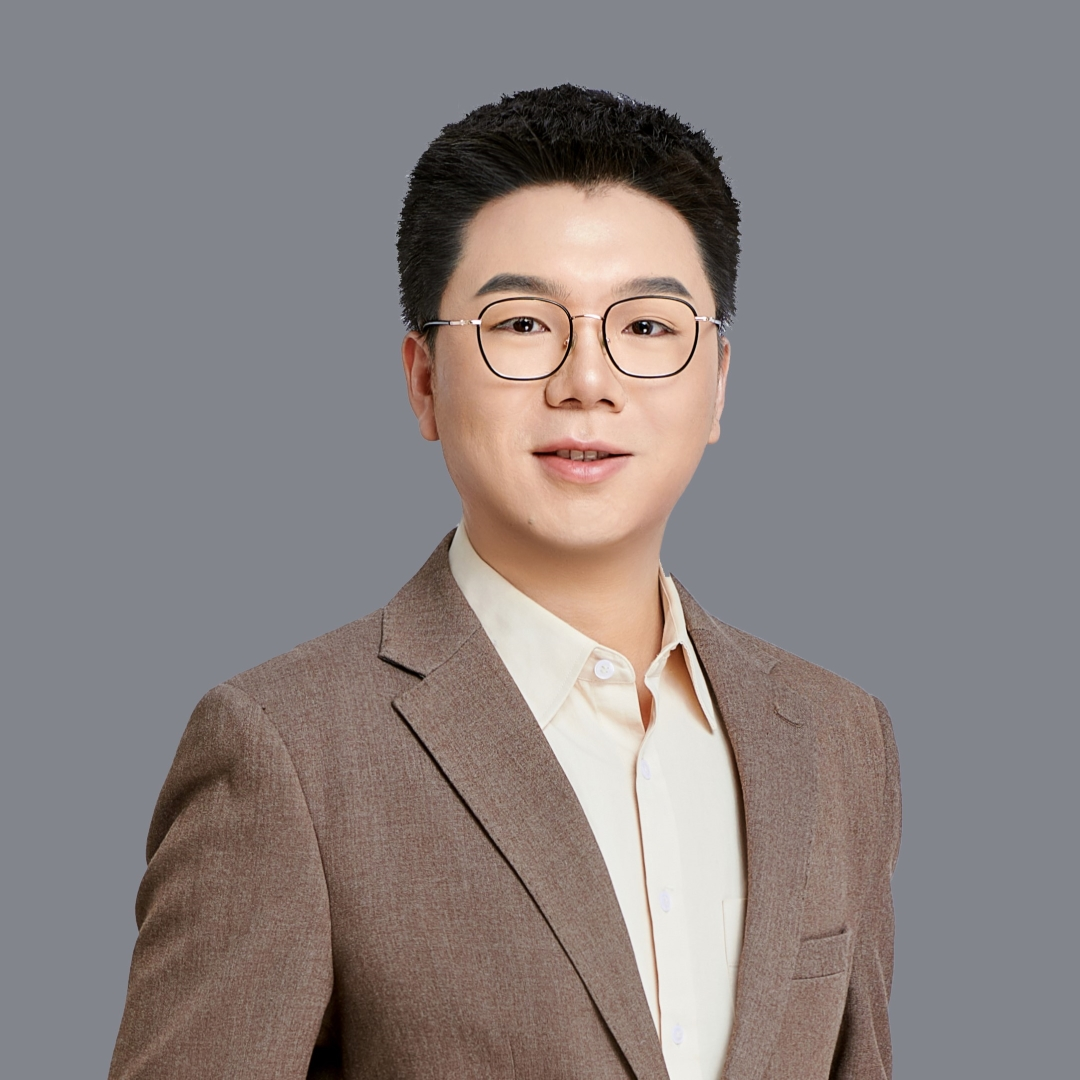
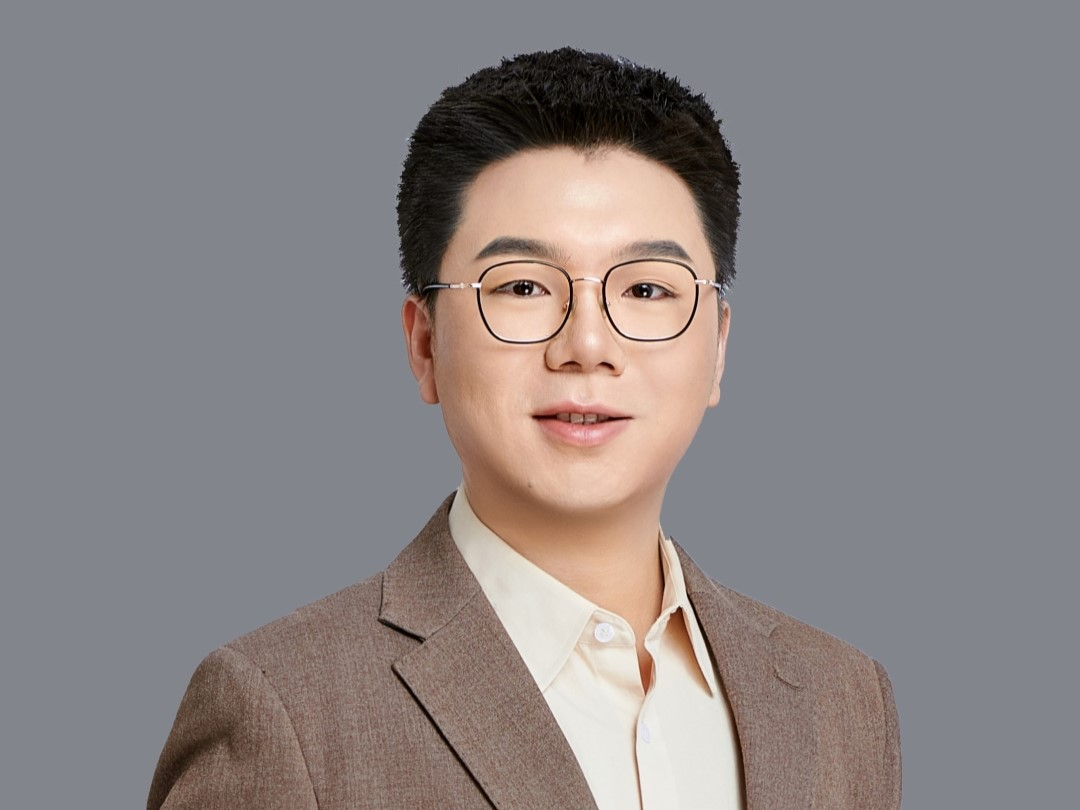
004

Changed region(s): [[0.0917, 0.1235, 0.8556, 1.0], [0.3972, 0.0617, 0.6417, 0.1543]]

diff --git a/content/authors/admin/_index.md b/content/authors/admin/_index.md
@@ -1,41 +1,60 @@
 ---
 # Display name
-title: Nelson Bighetti
+title: 王化平 Huaping Wang 
 
 # Full Name (for SEO)
-first_name: Nelson
-last_name: Bighetti
+first_name: Huaping
+last_name: Wang
+
+# Username (this should match the folder name)
+authors:
+  - 王化平
 
 # Is this the primary user of the site?
 superuser: true
 
 # Role/position
-role: Professor of Artificial Intelligence
+role: 机械工程/机器人工程 教授/博导 Professor of Mechanical Engineering&Robot Engineering
 
 # Organizations/Affiliations
 organizations:
-  - name: Stanford University
-    url: ''
+  - name: 北京理工大学 Beijing Institute of Technology
+    url: 'https://smen.bit.edu.cn/szdw/szml/znjqryjs/qb08/4ada85fc3d4e4ebd8d84480267e36754.htm'
 
 # Short bio (displayed in user profile at end of posts)
-bio: My research interests include distributed robotics, mobile computing and programmable matter.
+bio: My research interests include Robotics and micro and nano biotechnology
 
 interests:
-  - Artificial Intelligence
-  - Computational Linguistics
-  - Information Retrieval
+  - 多尺度机器人设计与集成
+  - 微纳生物目标交互
+  - 多机器人协同微操作
 
 education:
   courses:
-    - course: PhD in Artificial Intelligence
-      institution: Stanford University
-      year: 2012
-    - course: MEng in Artificial Intelligence
-      institution: Massachusetts Institute of Technology
-      year: 2009
-    - course: BSc in Artificial Intelligence
-      institution: Massachusetts Institute of Technology
-      year: 2008
+    - course: 教授、博士生导师
+      institution: 北京理工大学机电学院
+      year: 2022-
+    - course: 长聘副教授、博士生导师
+      institution: 北京理工大学机电学院
+      year: 2021-2022
+    - course: 副教授、硕士生导师
+      institution: 北京理工大学机电学院
+      year: 2019-2021
+    - course: 讲师、硕士生导师
+      institution: 北京理工大学机电学院
+      year: 2015-2019
+    - course: 机械工程专业 博士
+      institution: 北京理工大学机电学院
+      year: 2010-2015
+    - course: 微机电系统专业 访问学者
+      institution: 日本名古屋大学微纳系统工程系
+      year: 2012-2014    
+    - course: 机电工程专业 交换生
+      institution: 香港理工大学电子与信息工程系
+      year: 2009.01-2009.07
+    - course: 机械电子工程专业 学士
+      institution: 北京理工大学机电学院
+      year: 2006-2010
 
 # Social/Academic Networking
 # For available icons, see: https://docs.hugoblox.com/getting-started/page-builder/#icons
@@ -44,16 +63,16 @@ education:
 social:
   - icon: envelope
     icon_pack: fas
-    link: 'mailto:test@example.org'
-  - icon: twitter
+    link: 'wanghuaping@bit.edu.cn'
+  - icon: weixin
     icon_pack: fab
-    link: https://twitter.com/GeorgeCushen
+    link: xxx
   - icon: google-scholar
     icon_pack: ai
-    link: https://scholar.google.co.uk/citations?user=sIwtMXoAAAAJ
+    link: xxx
   - icon: github
     icon_pack: fab
-    link: https://github.com/gcushen
+    link: xxx
 # Link to a PDF of your resume/CV from the About widget.
 # To enable, copy your resume/CV to `static/files/cv.pdf` and uncomment the lines below.
 # - icon: cv
@@ -61,17 +80,90 @@ social:
 #   link: files/cv.pdf
 
 # Enter email to display Gravatar (if Gravatar enabled in Config)
-email: ''
+email: 'wanghuaping@bit.edu.cn'
 
 # Highlight the author in author lists? (true/false)
-highlight_name: false
+highlight_name: true
 
 # Organizational groups that you belong to (for People widget)
 #   Set this to `[]` or comment out if you are not using People widget.
 user_groups:
-  - Researchers
+  - Principal Investigators
 ---
 
-Nelson Bighetti is a professor of artificial intelligence at the Stanford AI Lab. His research interests include distributed robotics, mobile computing and programmable matter. He leads the Robotic Neurobiology group, which develops self-reconfiguring robots, systems of self-organizing robots, and mobile sensor networks.
+王化平教授主要从事磁驱软体机器人、微纳机器人、微尺度自动化等领域研究，在多尺度机器人设计与集成、微纳生物目标交互、多机器人协同微操作等方向开展研究工作。主持国家优秀青年科学基金、北京市科技计划项目、北京市自然科学基金等。建立了基于宏微混合与多物理场驱动的微纳生物操作机器人系统，探索微尺度“人-机-环境”共融协同方法，实现了面向微尺度多目标生物操作与人工组织功能化构建的多机器人协同控制，为癌症、血栓等重大疾病精准治疗与器官修复提供了新思路，该研究处于国际领先水平。相关研究成果在Science Advances、Nature Communications、IEEE Trans.系列汇刊等发表SCI论文30余篇，申请中国/国际发明专利15项，获机器人领域top1国际学术会议ICRA-2021最佳自动化论文奖（中国大陆首次、1997-今）等9项国际学术奖励，出版学术专著2部并获批十三五国家重点出版规划项目、国家科学技术学术著作出版基金资助项目，担任Frontiers in Neurorobotics、Cyborg and Bionic Systems等国际期刊编委会成员。指导学生科技竞赛项目获中国研究生机器人创新设计大赛一等奖、第十七届“挑战杯”特等奖并获评优秀指导教师。
 
-Lorem ipsum dolor sit amet, consectetur adipiscing elit. Sed neque elit, tristique placerat feugiat ac, facilisis vitae arcu. Proin eget egestas augue. Praesent ut sem nec arcu pellentesque aliquet. Duis dapibus diam vel metus tempus vulputate.
+“代表性成果”
+
+1. Zheng Zhiqiang, Wang Huaping*, Demir Sinan Ozgun, Huang Qiang*, et al., “Programmable Aniso-Electrodeposited Modular Hydrogel Microrobots”, Science Advances, vol. 8(50): eade6135, Dec. 14, 2022. (IF: 13.6, 中科院1区)
+
+2. Zheng Zhiqiang, Wang Huaping*, Dong Lixin, Shi Qing, Huang Qiang*, et al., “Ionic Shape-Morphing Microrobotic End-Effectors for Environmentally Adaptive Targeting, Releasing, and Sampling”, Nature Communications, vol. 12(1), pp. 1-12, Jan. 2021. (IF: 16.6, 中科院1区)
+
+3. Wang Huaping*, Bai Kailun, Shi Qing, et al., “Digital Holography Based Three-Dimensional Multi-Target Locating for Automated Cell Micromanipulation”, IEEE Transactions on Automation Science and Engineering, DOI: 10.1109/TASE.2022.3228809, 2023. (IF: 5.6, 中科院1区)
+
+4. Wang Huaping*, et al., "Reconfigurable Formation Control for Coordinated Micromanipulation of Cross-Scale Targets in Railed Multiprobe Robot," IEEE/ASME Transactions on Mechatronics, doi: 10.1109/TMECH.2023.3304487, 2023. (IF: 6.4, 中科院1区)
+
+5. Hou Yaozhen, Wang Huaping*, Zhong Shihao, Qiu Yukang, et al., “Design and Control of a Surface-Dimple-Optimized Helical Microdrill for Motions in High-Viscosity Fluids”, IEEE/ASME Transactions on Mechatronics, vol. 28, no. 1, pp. 429-439, Feb. 2023. (IF: 6.4, 中科院1区)
+
+6. Hou Yaozhen, Wang Huaping*, Fu Rongxin, Wang Xian, Yu Jiangfan, Zhang Shuailong*, et al., "A Review on Microrobots Driven by Optical and Magnetic Fields", Lab on a Chip, vol. 23, pp. 848-868, 2023. (封面论文, IF: 6.1, 中科院1区)
+
+7. Li Xin, Wang Huaping*, Dong Xinyi, Shi Qing, et al., “Accurate Modulation of Photoprinting under Stiffness Imaging Feedback for Engineering ECMs with High-Fidelity Mechanical Properties”, Microsystems & Nanoengineering, vol. 8(3), pp. 1-11, Jun. 2, 2022. (IF: 7.9, 中科院1区)
+
+8. Li Xin, Wang Huaping*, Shi Qing, Wang Zhe, et al., “Holographic Display-Based Control for High-Accuracy Photolithography of Cellular Micro-Scaffold with Heterogeneous Architecture”, IEEE/ASME Transactions on Mechatronics, vol. 27(2), pp. 1117-1127, Apr. 2022. (IF: 6.4, 中科院1区)
+
+9. Cui Juan, Wang Huaping*, Shi Qing, Paolo Dario, Huang Qiang, et al., “Permeable Hollow 3D Tissue-Like Constructs Engineered by On-Chip Hydrodynamic-Driven Assembly of Multicellular Hierarchical Micromodules”, Acta Biomaterialia, vol. 113, pp. 328-338, Sep. 2020. (IF: 9.7, 中科院1区)
+
+10.Cui Juan, Wang Huaping*, Zheng Zhiqiang, Shi Qing, Huang Qiang, Fukuda Toshio, et al., “Fabrication of Perfusable 3D hepatic Lobule-Like Constructs through Assembly of Multiple Cell Type Laden Hydrogel Microstructures,” Biofabrication, vol. 11, Jan. 2019. (IF: 9, 中科院1区)
+
+
+“教学工作”
+
+1、主要讲授课程:
+（1）本科生课程《MATLAB基础与机器人学应用（全英文）》、《数值计算与机器人应用》
+（2）研究生课程《生物医疗与微纳机器人技术》、《机器人前沿技术》
+
+2、指导本科毕业设计获得“北京市优秀毕业设计”；
+
+3、指导“挑战杯”全国大学生课外学术科技作品竞赛获特等奖；
+
+4、指导iCAN大学生创新创业大赛获全国总决赛一等奖；
+
+5、中国研究生机器人创新设计大赛获全国一等奖
+
+
+“荣誉奖励”
+
+1、2022年度国家优秀青年科学基金
+
+2、国际会议IEEE ICRA-2021自动化领域优秀论文奖（Best Application Paper in Automation，机器人领域Top1国际会议，中国大陆首次获得（1997-今），1600篇仅1篇）
+
+3、国际学术会议IEEE CYBER-2023优秀论文奖（Best Student Paper，Top 0.5%）
+
+4、2023年第四届中国机器人学术年会最佳海报奖
+
+5、国际学术会议IEEE CBS-2022优秀论文奖（Best Student Paper，Top 0.5%）
+
+6、国际会议IEEE RCAR-2021控制领域优秀论文奖（Best Application Paper in Control，Top 0.5%）
+
+7、国际会议 IEEE MARSS-2018最佳应用奖（Best Application Paper，Top 0.6%）
+
+8、国际会议 IEEE CYBER-2017优秀论文奖（Best Student Paper，Top 0.5%）
+
+9、国际会议 IEEE ROBIO-2017优秀论文提名奖（Best Paper Finalist，Top 2%）
+
+
+“社会兼职”
+
+1、Cyborg and Bionic Systems青年编委（Science合作期刊、中国卓越行动计划）
+
+2、Frontiers in Neurorobotics机器人与神经科学领域SCI国际期刊编委会成员
+
+3、IEEE RCAR-2021程序委员会联席主席
+
+4、IEEE CBS-2022宣传委员会联席主席
+
+5、中国计算机学会智能机器人专业委员会委员
+
+6.、中国微米纳米技术学会微纳机器人分会理事
+
+7、中国指挥与控制学会智能控制与系统专业委员会委员
